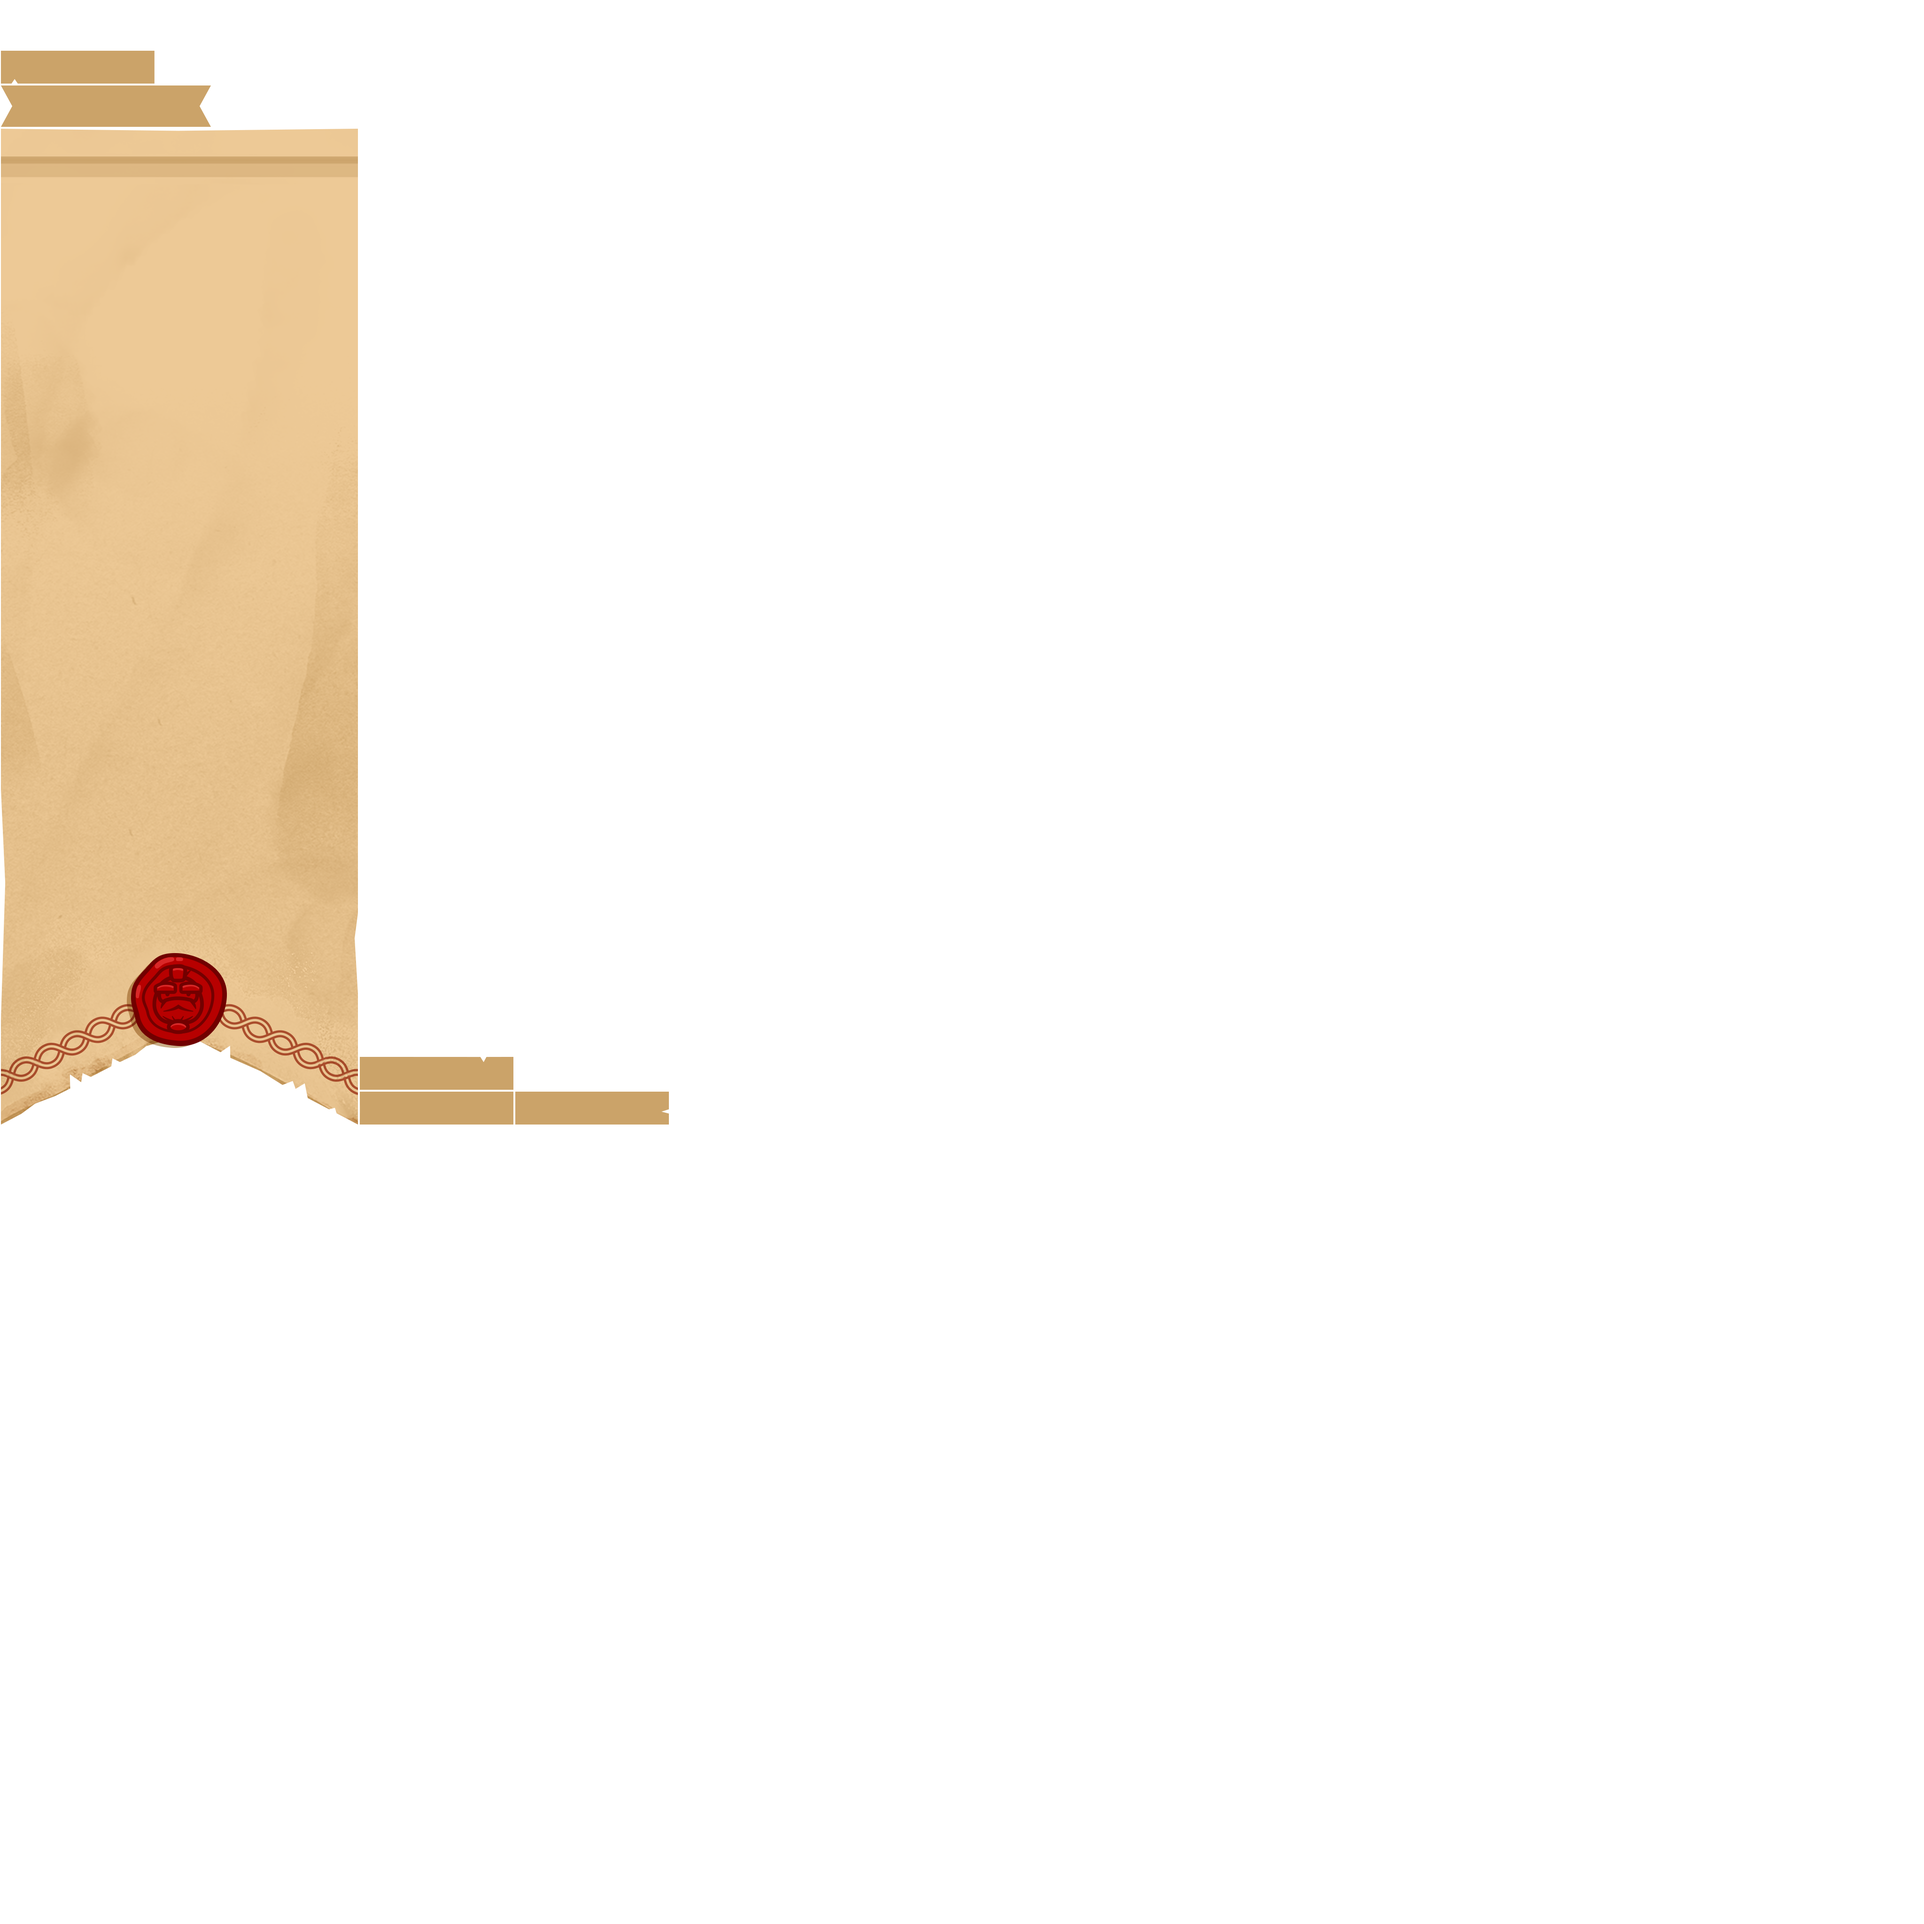
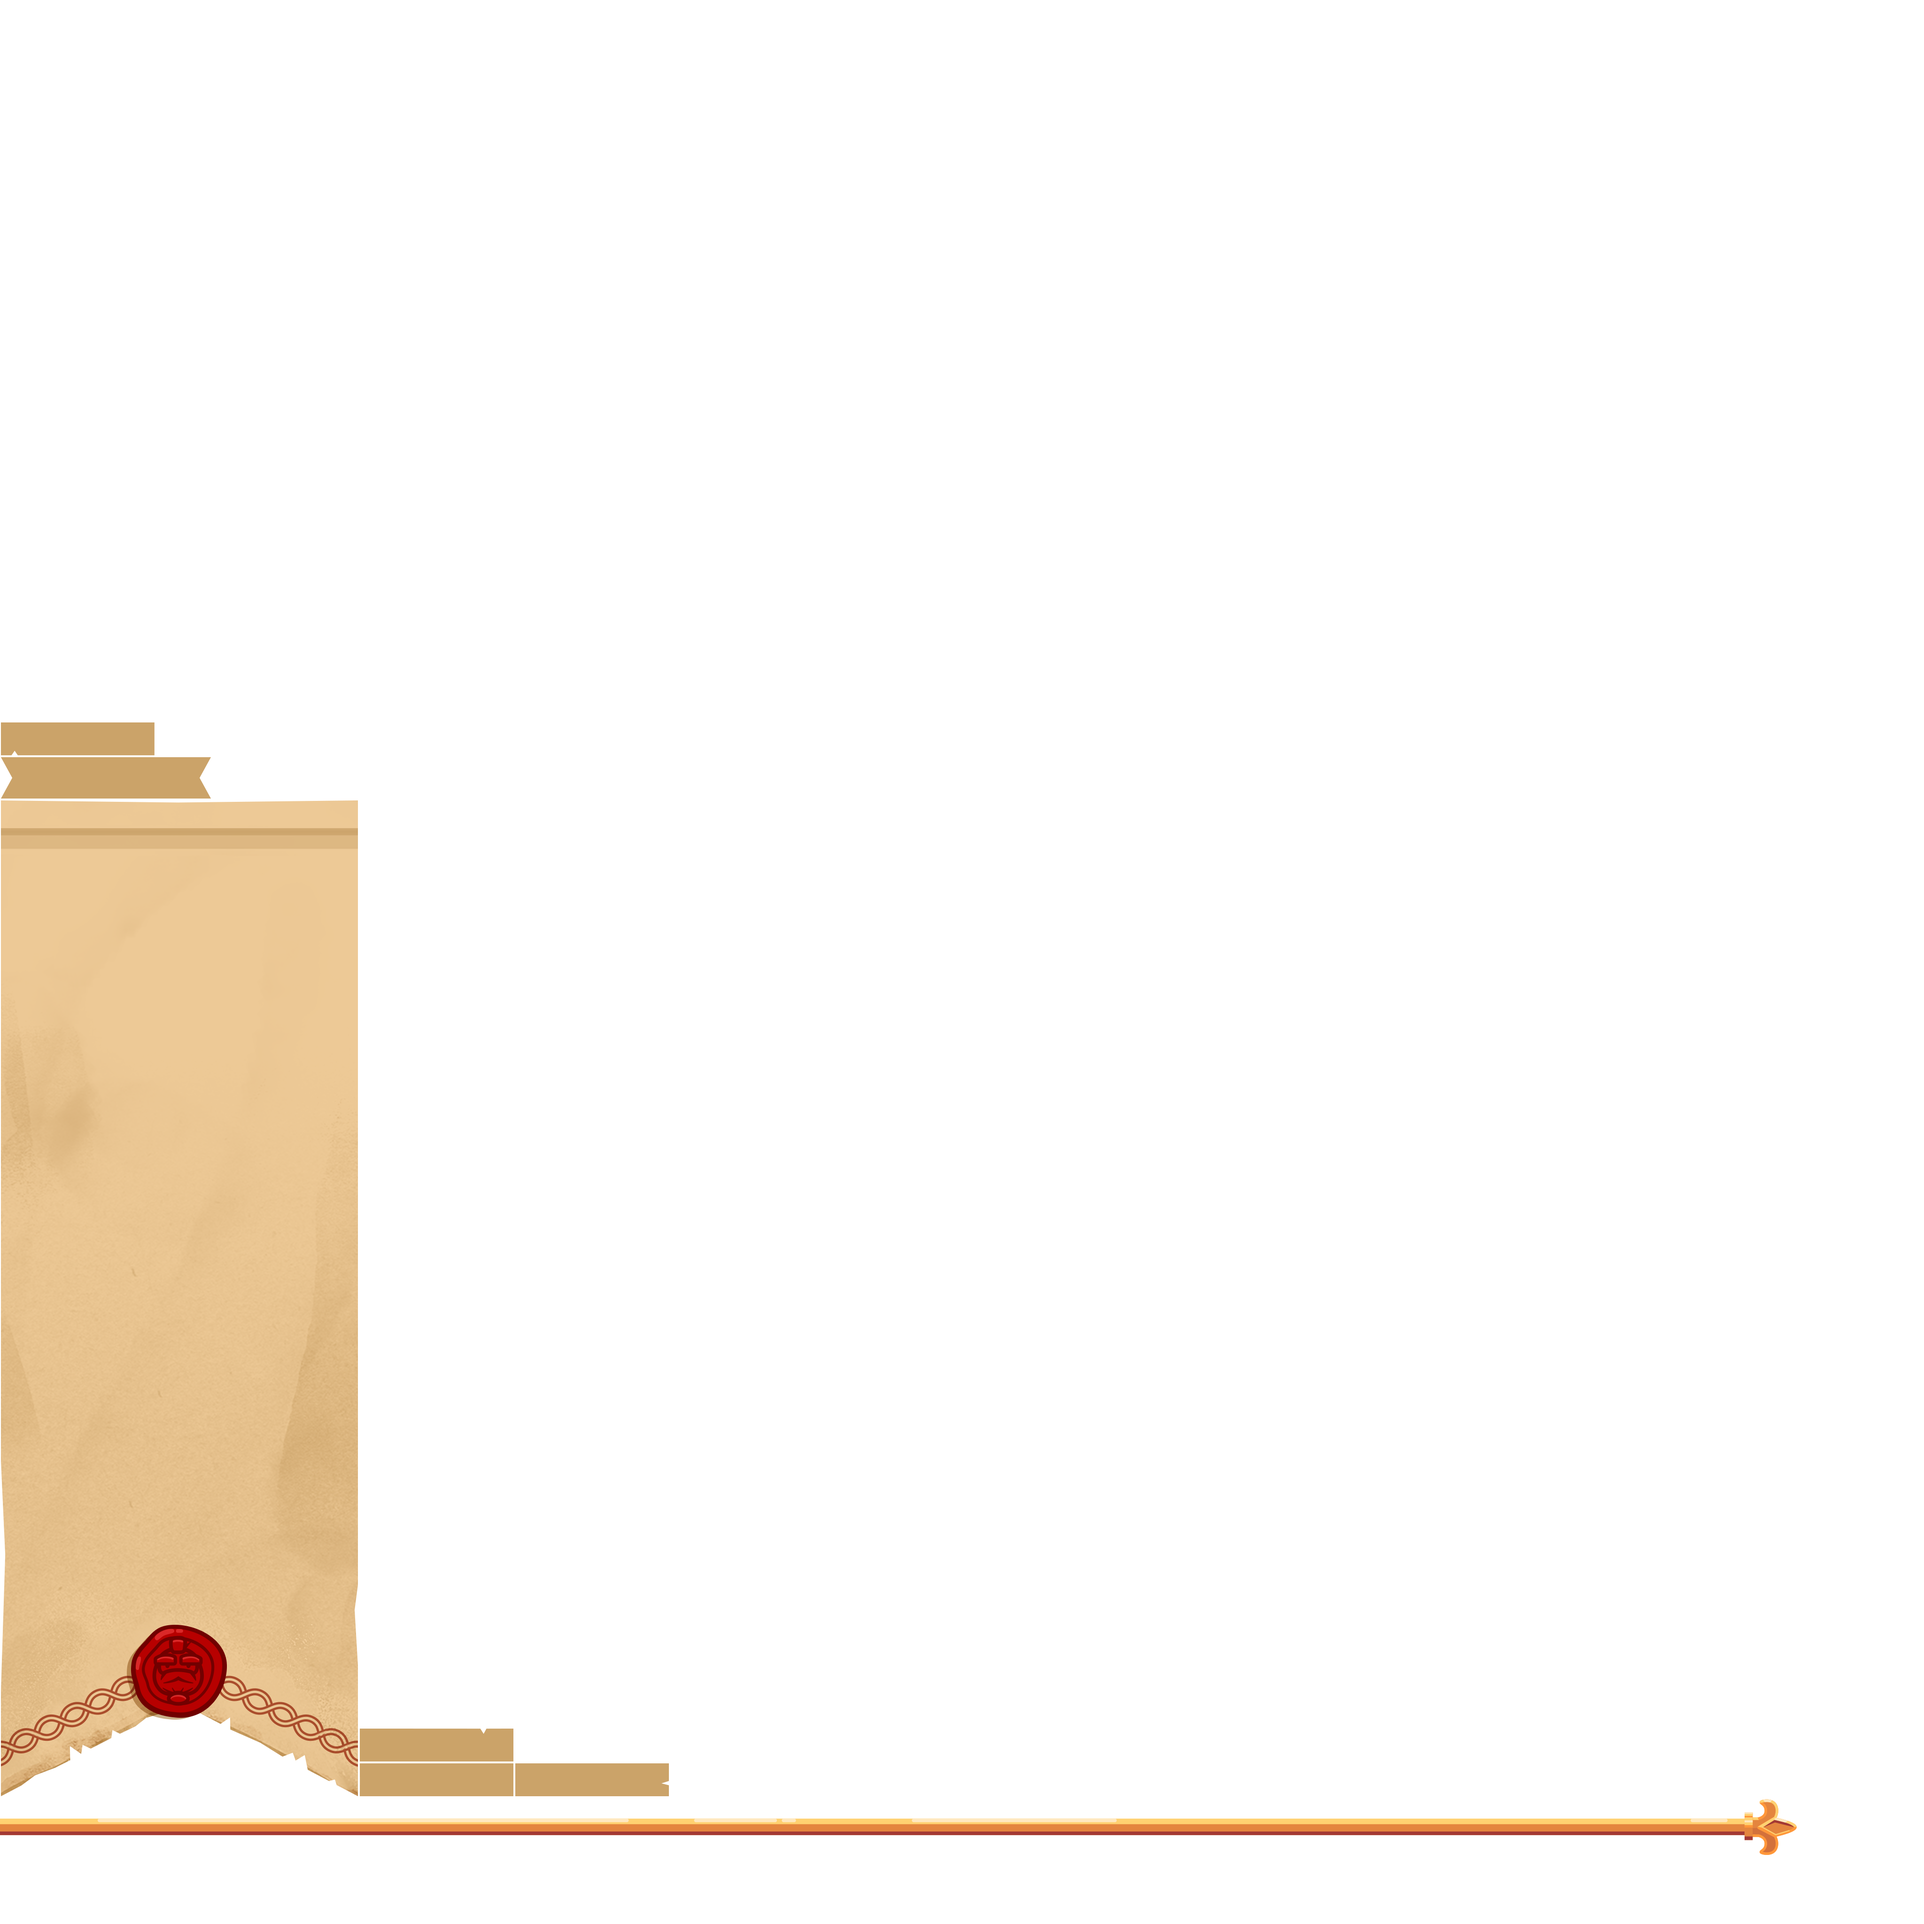
Not happy with the implementation but the result is somewhat what im expecting?

Changed region(s): [[0.0, 0.5, 0.9375, 0.9688], [0.0, 0.0, 0.1875, 0.4688]]

diff --git a/core/src/main/java/technology/rocketjump/saul/screens/menus/TopLevelMenu.java b/core/src/main/java/technology/rocketjump/saul/screens/menus/TopLevelMenu.java
@@ -4,6 +4,7 @@ import com.badlogic.gdx.Gdx;
 import com.badlogic.gdx.ai.msg.MessageDispatcher;
 import com.badlogic.gdx.scenes.scene2d.Actor;
 import com.badlogic.gdx.scenes.scene2d.ui.*;
+import com.badlogic.gdx.utils.Align;
 import com.badlogic.gdx.utils.Scaling;
 import com.google.inject.Inject;
 import com.google.inject.Singleton;
@@ -20,6 +21,8 @@ public class TopLevelMenu implements Menu {
     private final Stack sceneStack = new Stack();
     private final Image discordIconImage;
     private final Image twitchIconImage;
+    private final Image mainBannerImage;
+    private final Image bannerPoleImage;
 
     @Inject
     public TopLevelMenu(GuiSkinRepository skinRepository, MenuButtonFactory menuButtonFactory, MessageDispatcher messageDispatcher) {
@@ -29,7 +32,14 @@ public class TopLevelMenu implements Menu {
 
         this.discordIconImage = new Image(menuSkin.getDrawable("icon_discord"), Scaling.fit);
         this.twitchIconImage = new Image(menuSkin.getDrawable("icon_twitch"), Scaling.fit);
+        this.mainBannerImage = new Image(menuSkin.getDrawable("asset_bg_banner"), Scaling.fit);
+        this.bannerPoleImage = new Image(menuSkin.getDrawable("asset_bg_banner_pole"), Scaling.fit);
 
+        bannerPoleImage.setAlign(Align.top);
+
+        mainBannerImage.setAlign(Align.top);
+
+//        sceneStack.add(bannerPoleImage);
         sceneStack.add(buildSocialMediaLayer());
         sceneStack.add(buildMainMenuLayer());
     }
@@ -68,8 +78,8 @@ public class TopLevelMenu implements Menu {
 
         Table table = new Table();
         table.defaults().padLeft(41f).padBottom(44f);
-        table.add(discordButton);
         table.add(twitchButton);
+        table.add(discordButton);
         table.bottom().left();
         return table;
     }
@@ -79,7 +89,7 @@ public class TopLevelMenu implements Menu {
 
         Container<TextButton> continueButton = menuButtonFactory.createButton("MENU.CONTINUE_GAME", menuSkin, MenuButtonFactory.ButtonStyle.BTN_BANNER_1)
                 .withHeaderFont(47)
-                .withScaleUpOnHoverBy(0.2f)
+//                .withScaleUpOnHoverBy(0.2f)
                 .withAction(() -> {
                     //todo: thinking the gameStarted should be in a context somewhere, not in here?
 //                    if (gameStarted) {
@@ -96,7 +106,7 @@ public class TopLevelMenu implements Menu {
 
         Container<TextButton> loadGameButton = menuButtonFactory.createButton("MENU.LOAD_GAME", menuSkin, MenuButtonFactory.ButtonStyle.BTN_BANNER_1)
                 .withHeaderFont(47)
-                .withScaleUpOnHoverBy(0.2f)
+//                .withScaleUpOnHoverBy(0.2f)
                 .withAction(() -> {
                     messageDispatcher.dispatchMessage(MessageType.SWITCH_MENU, MenuType.LOAD_GAME_MENU);
                 })
@@ -104,7 +114,7 @@ public class TopLevelMenu implements Menu {
 
         Container<TextButton> newGameButton = menuButtonFactory.createButton("MENU.NEW_GAME", menuSkin, MenuButtonFactory.ButtonStyle.BTN_BANNER_1)
                 .withHeaderFont(47)
-                .withScaleUpOnHoverBy(0.2f)
+//                .withScaleUpOnHoverBy(0.2f)
                 .withAction(() -> {
                     messageDispatcher.dispatchMessage(MessageType.SWITCH_MENU, MenuType.EMBARK_MENU);
                 })
@@ -113,7 +123,7 @@ public class TopLevelMenu implements Menu {
         Container<TextButton> optionsButton = menuButtonFactory.createButton("MENU.OPTIONS", menuSkin, MenuButtonFactory.ButtonStyle.BTN_BANNER_1)
                 .withHeaderFont(47)
                 .withScaleBy(-0.1f)
-                .withScaleUpOnHoverBy(0.2f)
+//                .withScaleUpOnHoverBy(0.2f)
                 .withAction(() -> {
                     messageDispatcher.dispatchMessage(MessageType.SWITCH_MENU, MenuType.OPTIONS_MENU);
                 })
@@ -122,7 +132,7 @@ public class TopLevelMenu implements Menu {
         Container<TextButton> modsButton = menuButtonFactory.createButton("MENU.MODS", menuSkin, MenuButtonFactory.ButtonStyle.BTN_BANNER_2)
                 .withHeaderFont(47)
                 .withScaleBy(-0.1f)
-                .withScaleUpOnHoverBy(0.2f)
+//                .withScaleUpOnHoverBy(0.2f)
                 .withAction(() -> {
                     messageDispatcher.dispatchMessage(MessageType.SWITCH_MENU, MenuType.MODS_MENU);
                 })
@@ -131,13 +141,13 @@ public class TopLevelMenu implements Menu {
         Container<TextButton> creditsButton = menuButtonFactory.createButton("MENU.CREDITS", menuSkin, MenuButtonFactory.ButtonStyle.BTN_BANNER_3)
                 .withHeaderFont(47)
                 .withScaleBy(-0.1f)
-                .withScaleUpOnHoverBy(0.2f)
+//                .withScaleUpOnHoverBy(0.2f)
                 .build();
 
         Container<TextButton> quitButton = menuButtonFactory.createButton("MENU.QUIT", menuSkin, MenuButtonFactory.ButtonStyle.BTN_BANNER_4)
                 .withHeaderFont(47)
                 .withScaleBy(-0.1f)
-                .withScaleUpOnHoverBy(0.2f)
+//                .withScaleUpOnHoverBy(0.2f)
                 .withAction(() -> {
                     messageDispatcher.dispatchMessage(MessageType.PERFORM_SAVE, new GameSaveMessage(false));
                     Gdx.app.exit();
@@ -147,15 +157,30 @@ public class TopLevelMenu implements Menu {
 
 
 
-        Table table = new Table();
-        table.add(continueButton).padBottom(17f).row();
-        table.add(loadGameButton).padBottom(17f).row();
-        table.add(newGameButton).padBottom(17f).row();
-        table.add(optionsButton).padBottom(15f).row();
-        table.add(modsButton).padBottom(15f).row();
-        table.add(creditsButton).padBottom(15f).row();
-        table.add(quitButton).padBottom(15f).row();
+        Table buttonsTable = new Table();
+        buttonsTable.add(continueButton).padBottom(17f).width(307).row();
+        buttonsTable.add(loadGameButton).padBottom(17f).width(307).row();
+        buttonsTable.add(newGameButton).padBottom(17f).width(307).row();
+        buttonsTable.add(optionsButton).padBottom(15f).width(277).row();
+        buttonsTable.add(modsButton).padBottom(15f).width(277).row();
+        buttonsTable.add(creditsButton).padBottom(15f).width(277).row();
+        buttonsTable.add(quitButton).padBottom(208f).width(277).row();
+        buttonsTable.bottom();
 
-        return table;
+        Table imageTable = new Table();
+        imageTable.add(mainBannerImage).width(400).height(1080-16); //TODO: this feels dirty
+
+
+
+        Stack mainBanner = new Stack();
+        mainBanner.add(imageTable);
+        mainBanner.add(buttonsTable);
+
+        Table positioningTable = new Table();
+        positioningTable.right().top();
+        positioningTable.padTop(16f).padRight(115f);
+        positioningTable.add(mainBanner);
+
+        return positioningTable;
     }
 }

diff --git a/core/src/main/java/technology/rocketjump/saul/screens/MainMenuScreen.java b/core/src/main/java/technology/rocketjump/saul/screens/MainMenuScreen.java
@@ -140,7 +140,7 @@ public class MainMenuScreen implements Telegraph, GameScreen, I18nUpdatable, Gam
 			}
 		});
 
-		stage.addActor(versionTable);
+//		stage.addActor(versionTable);
 
 		if (crashHandler.isOptInConfirmationRequired()) {
 			currentMenu = privacyOptInMenu;
@@ -251,7 +251,7 @@ public class MainMenuScreen implements Telegraph, GameScreen, I18nUpdatable, Gam
 		currentMenu.populate(containerTable);
 
 		stage.addActor(containerTable);
-		stage.addActor(versionTable);
+//		stage.addActor(versionTable);
 
 		for (Dialog outstandingDialog : outstandingDialogs) {
 			stage.addActor(outstandingDialog);
